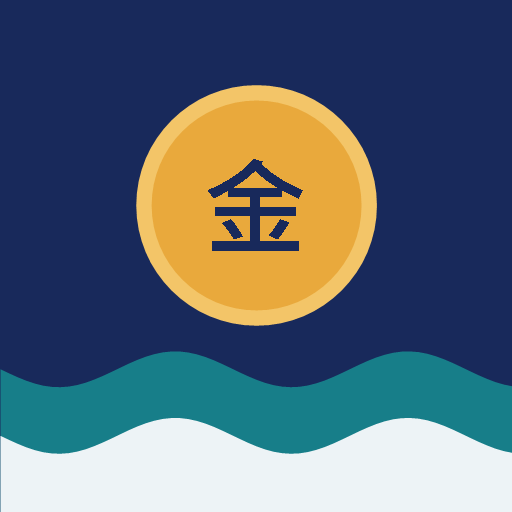
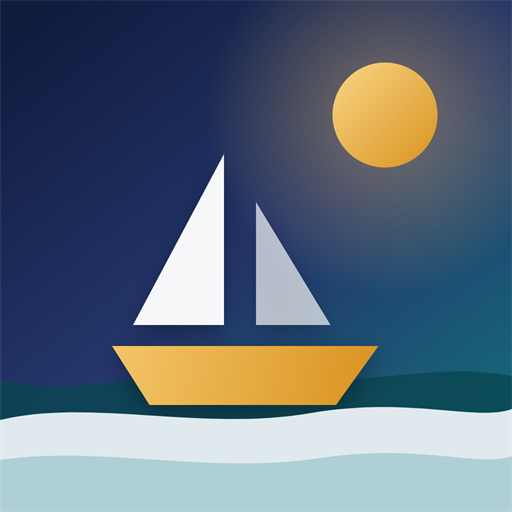
更換主畫面圖示為夜航帆船版，快取升到 v3

diff --git a/sw.js b/sw.js
@@ -1,4 +1,4 @@
-const CACHE = 'gold-sprint-v2';
+const CACHE = 'gold-sprint-v3';
 const ASSETS = [
   './index.html',
   './manifest.json',